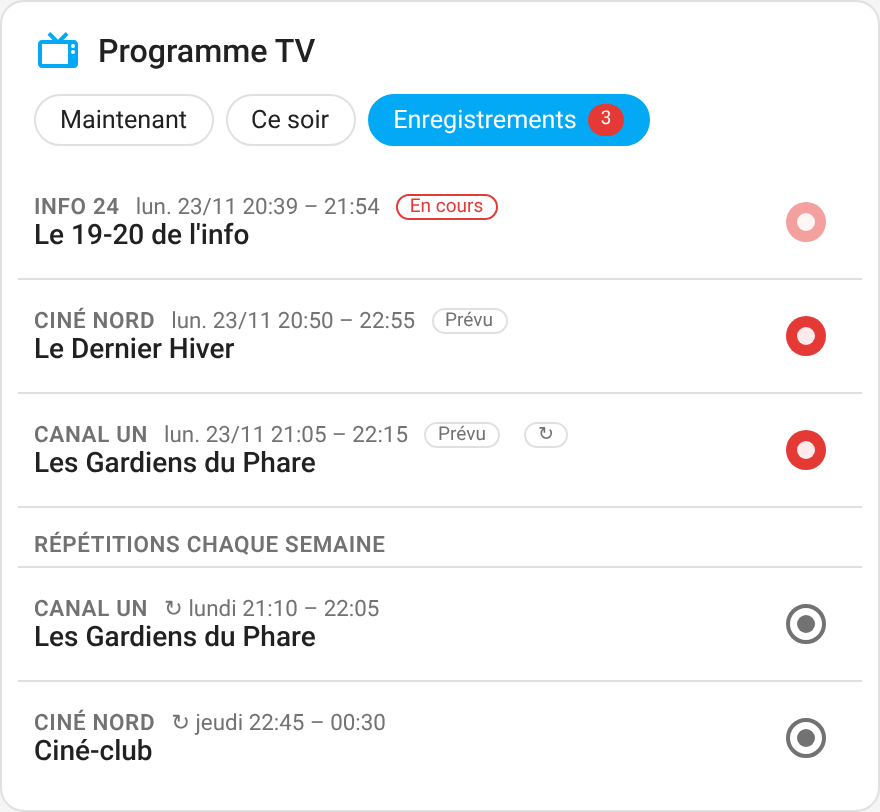
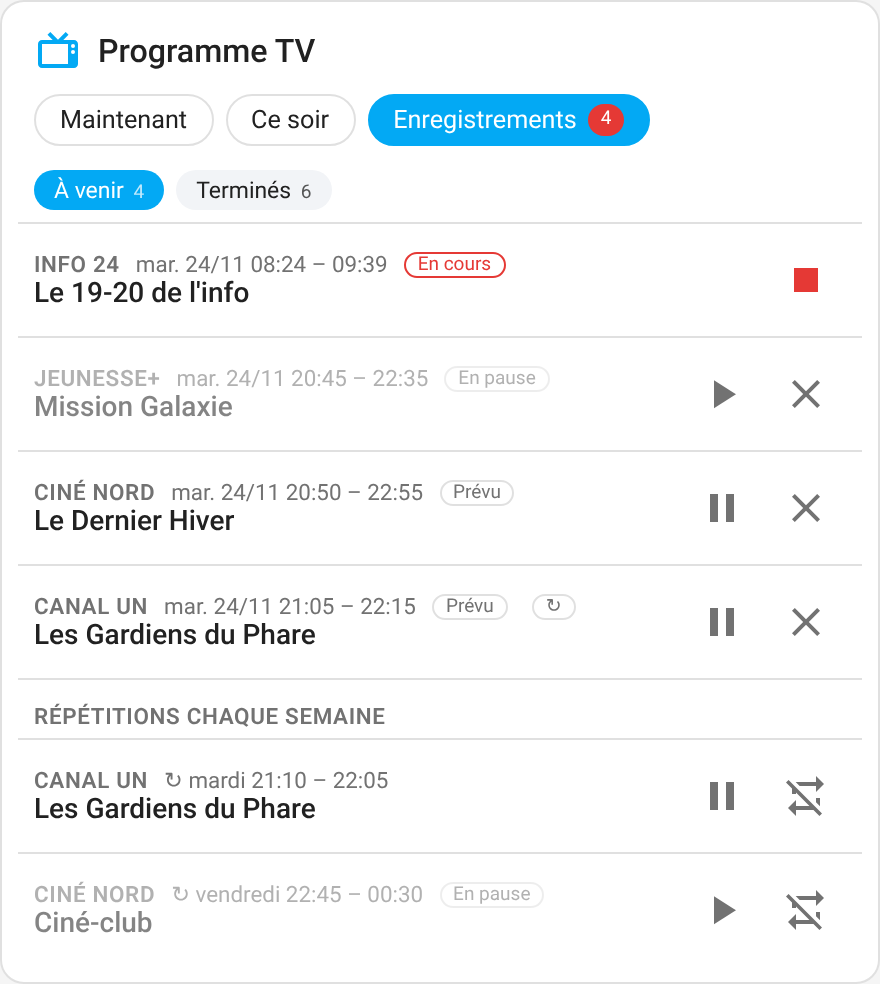
Add files via upload

diff --git a/README.md b/README.md
@@ -32,7 +32,7 @@ Freebox PVR programme des **enregistrements TV sur votre Freebox** depuis Home A
 - **Répéter chaque semaine** : même chaîne, même jour, même horaire ; chaque semaine, l'enregistrement suivant est programmé sur la Freebox. Une occurrence annulée n'est pas recréée. Le jour de la diffusion, le guide est vérifié : même titre → sous-titre de l'épisode et horaire mis à jour ; titre différent → notification pour décider (Annuler / Garder).
 - **Pas de doublon** : un 2e appel pour le même programme renvoie l'enregistrement existant.
 - **Programme déjà commencé** : l'enregistrement démarre tout de suite.
-- **Annulation** d'un enregistrement, par identifiant ou par programme.
+- **Gérer les enregistrements** : consulter les enregistrements à venir et ceux déjà enregistrés sur le disque ; mettre en pause / reprendre un enregistrement ou une répétition ; arrêter un enregistrement en cours ; annuler ; supprimer un enregistrement terminé.
 - **Entités** : enregistrements programmés (avec leur liste), prochain enregistrement, enregistrement en cours.
 - **Bouton dans la carte Programme TNT FR** : la fiche de chaque programme (carrousels, Guide TV, Top films) propose « Enregistrer sur la Freebox », ou indique que le programme est déjà enregistré avec un bouton pour l'annuler. Rien à configurer.
 - **Carte du tableau de bord** « Freebox PVR » : le programme TV (maintenant, ce soir) avec un bouton d'enregistrement sur chaque programme, et la liste des enregistrements. Aucune ressource à ajouter.
@@ -129,7 +129,7 @@ Si la carte [Programme TNT FR](https://github.com/cyclope205/programme-tnt-fr) e
 - **Chaque semaine** : répète l'enregistrement chaque semaine, le même jour à la même heure.
 - **Marges** : cochées par défaut avec les valeurs des options de l'intégration ; modifiables pour cet enregistrement (0 à 60 min avant, 0 à 120 min après) ou désactivées en décochant la case. La ligne « Enregistrement de … à … » donne les heures réelles, marges comprises.
 - **Enregistrer sur la Freebox** : programme l'enregistrement, avec les marges des options. Fonctionne aussi pour les jours suivants dans le Guide TV, et pour un programme déjà commencé (l'enregistrement démarre tout de suite).
-- **Enregistrement programmé** : le programme est déjà enregistré (depuis Home Assistant, le Player ou Freebox OS), avec ses horaires réels (marges comprises) et ↻ s'il est répété. **Annuler l'enregistrement** puis **Confirmer l'annulation** le supprime. **Répéter chaque semaine** ajoute la répétition ; **Arrêter la répétition** puis **Confirmer l'arrêt** l'arrête et supprime les enregistrements des semaines suivantes déjà programmés (celui du programme affiché est gardé).
+- **Enregistrement programmé** : le programme est déjà enregistré (depuis Home Assistant, le Player ou Freebox OS), avec ses horaires réels (marges comprises) et ↻ s'il est répété. **Mettre en pause** le désactive sans le supprimer (**Reprendre** le réactive) ; pendant l'enregistrement, **Arrêter l'enregistrement** puis **Confirmer l'arrêt** le termine en gardant la partie enregistrée. **Annuler l'enregistrement** puis **Confirmer l'annulation** le supprime. **Répéter chaque semaine** ajoute la répétition ; **Arrêter la répétition** puis **Confirmer l'arrêt** l'arrête et supprime les enregistrements des semaines suivantes déjà programmés (celui du programme affiché est gardé).
 - **Chaîne introuvable sur la Freebox** : ajoutez une correspondance dans les options de l'intégration.
 
 La carte Programme TNT FR n'est pas modifiée : Freebox PVR complète sa fiche au moment où elle s'ouvre. Si une future version de cette carte change son fonctionnement interne, la ligne n'apparaît simplement plus (message dans la console du navigateur) et la carte fonctionne comme avant.
@@ -154,7 +154,10 @@ pvr_entity: sensor.freebox_pvr_enregistrements_programmes   # facultatif : trouv
 - **Bouton d'enregistrement** (rond rouge) : un appui programme l'enregistrement. Le programme passe en rouge quand il est enregistré (la Freebox fait foi). Un nouvel appui propose « Annuler ? » pendant 4 secondes ; un 2e appui annule.
 - Bouton grisé : la chaîne n'a pas été trouvée sur la Freebox ; ajoutez une correspondance dans les options de l'intégration.
 - Un appui sur un programme affiche son résumé, sa note, son affiche, et les réglages d'enregistrement (heure de fin, chaque semaine) comme dans la fiche Programme TNT FR.
-- L'onglet **Enregistrements** liste aussi les **répétitions chaque semaine**, avec un bouton pour arrêter chacune (les enregistrements déjà programmés sont gardés).
+- L'onglet **Enregistrements** a deux vues :
+  - **À venir** : enregistrements programmés, en cours et en pause, avec ❙❙ mettre en pause / ► reprendre, ✕ annuler, ■ arrêter (en cours) ; puis les **répétitions chaque semaine**, avec mettre en pause / reprendre et arrêter la répétition.
+  - **Terminés** : enregistrements présents sur le disque de la Freebox (chaîne, date, durée, taille), du plus récent au plus ancien, avec la corbeille pour supprimer (le fichier est effacé).
+  - Les actions qui suppriment ou arrêtent demandent une confirmation (« Confirmer ? », 4 secondes).
 
 ### Captures d'écran
 
@@ -165,6 +168,7 @@ pvr_entity: sensor.freebox_pvr_enregistrements_programmes   # facultatif : trouv
 | **Carrousel** (4 affiches par rangée)<br>![Carrousel](docs/screenshots/tnt_carrousel.png) | **Fiche** — fin, chaque semaine, marges<br>![Fiche](docs/screenshots/fiche_enregistrer.png) |
 | **Fiche** — fin après minuit, répétée chaque semaine, marge après modifiée<br>![Minuit](docs/screenshots/fiche_minuit.png) | **Fiche** — sans marges<br>![Sans marges](docs/screenshots/fiche_sans_marges.png) |
 | **Fiche** — programme déjà enregistré et répété<br>![Enregistré](docs/screenshots/fiche_enregistre.png) | **Fiche** — arrêt de la répétition<br>![Arrêter](docs/screenshots/fiche_annuler.png) |
+| **Fiche** — enregistrement en pause<br>![En pause](docs/screenshots/fiche_pause.png) | **Fiche** — enregistrement en cours<br>![En cours](docs/screenshots/fiche_en_cours.png) |
 | **Fiche** — thème sombre<br>![Sombre](docs/screenshots/fiche_enregistrer_sombre.png) | |
 
 **Carte Freebox PVR**
@@ -172,8 +176,9 @@ pvr_entity: sensor.freebox_pvr_enregistrements_programmes   # facultatif : trouv
 | | |
 |---|---|
 | **Ce soir** — deux programmes enregistrés, une chaîne introuvable<br>![Ce soir](docs/screenshots/ce_soir.png) | **Maintenant** — progression et détail d'un programme<br>![Maintenant](docs/screenshots/maintenant.png) |
-| **Enregistrements** — en cours, prévus et répétitions<br>![Enregistrements](docs/screenshots/enregistrements.png) | **Détail d'un programme** — réglages d'enregistrement<br>![Détail](docs/screenshots/carte_detail.png) |
-| **Annulation** — confirmation en un appui<br>![Annulation](docs/screenshots/annulation.png) | **Thème sombre**<br>![Sombre](docs/screenshots/sombre.png) |
+| **Enregistrements à venir** — en cours, en pause, prévus, répétitions<br>![À venir](docs/screenshots/enregistrements.png) | **Enregistrements terminés** — sur le disque de la Freebox<br>![Terminés](docs/screenshots/termines.png) |
+| **Annulation** — confirmation en un appui<br>![Annulation](docs/screenshots/annulation.png) | **Détail d'un programme** — réglages d'enregistrement<br>![Détail](docs/screenshots/carte_detail.png) |
+| **Thème sombre**<br>![Sombre](docs/screenshots/sombre.png) | |
 | **En anglais**<br>![English](docs/screenshots/english.png) | |
 
 *Captures réalisées sur une installation de démonstration : chaînes, programmes, affiches et logos sont fictifs. La carte Programme TNT FR est celle de [cyclope205](https://github.com/cyclope205/programme-tnt-fr), affichée telle quelle avec la ligne ajoutée par Freebox PVR.*
@@ -182,7 +187,8 @@ pvr_entity: sensor.freebox_pvr_enregistrements_programmes   # facultatif : trouv
 
 | Entité | Rôle |
 |---|---|
-| `sensor.freebox_pvr_enregistrements_programmes` | Nombre d'enregistrements à venir ou en cours. Attributs : `records` (id, titre, sous-titre, chaîne, début, fin, état, erreur, conflit, horaires en timestamp `start_ts` / `end_ts`), `conflicts` (nombre), `failed` (5 derniers échecs), `guide_channels` (chaîne du guide → identifiant Freebox, `null` si introuvable : utile pour vérifier les correspondances), `repeats` (répétitions : id, titre, chaîne, jour 0 = lundi, heure, durée en minutes, prochain début). Chaque enregistrement a aussi `repeat_id` s'il vient d'une répétition |
+| `sensor.freebox_pvr_enregistrements_programmes` | Nombre d'enregistrements à venir ou en cours (hors pause). Attributs : `paused` (nombre en pause), `records` (à venir, en cours et en pause : id, titre, sous-titre, chaîne, début, fin, état, erreur, conflit, horaires en timestamp `start_ts` / `end_ts`), `conflicts` (nombre), `failed` (5 derniers échecs), `guide_channels` (chaîne du guide → identifiant Freebox, `null` si introuvable : utile pour vérifier les correspondances), `repeats` (répétitions : id, titre, chaîne, jour 0 = lundi, heure, durée en minutes, prochain début). Chaque enregistrement a aussi `repeat_id` s'il vient d'une répétition |
+| `sensor.freebox_pvr_enregistrements_termines` | Nombre d'enregistrements terminés sur le disque. Attributs : `recordings` (les 50 plus récents : id, titre, sous-titre, chaîne, début, fin, durée en secondes, taille en octets, état), `total_size` (octets) |
 | `sensor.freebox_pvr_prochain_enregistrement` | Heure de début du prochain enregistrement (marge comprise) ; attributs du programme |
 | `binary_sensor.freebox_pvr_enregistrement_en_cours` | Allumé pendant un enregistrement ; attribut `records` |
 
@@ -194,6 +200,10 @@ Les identifiants exacts dépendent de la langue de Home Assistant au moment de l
 |---|---|
 | `freebox_pvr.record` | Programme un enregistrement. Depuis un capteur du guide (`entity_id` + `slot` : `current`, `next`, `prime_time`, `second_part`) ou à la main (`channel_name` ou `channel_uuid`, `title`, `subtitle`, `start`, `end`). `end_time` (HH:MM) change l'heure de fin, le lendemain si elle est avant le début ; sur un programme déjà enregistré, elle modifie la fin de l'enregistrement. `repeat_weekly: true` répète chaque semaine. `margin_before`, `margin_after` et `quality` remplacent les options. Réponse : `record_id`, `already_programmed`, `repeat_id`, `channel_name`, `start`, `end`, `conflict` |
 | `freebox_pvr.cancel` | Annule un enregistrement programmé : par `record_id`, ou par programme (`entity_id` + `slot`, ou `channel_name` + `start`) |
+| `freebox_pvr.pause_record` / `freebox_pvr.resume_record` | Met en pause (désactive sans supprimer) / reprend un enregistrement programmé (`record_id`) |
+| `freebox_pvr.stop_record` | Arrête un enregistrement en cours (`record_id`) : la fin est avancée à maintenant, la partie enregistrée est gardée |
+| `freebox_pvr.delete_finished` | Supprime un enregistrement terminé et son fichier (`record_id`, voir le capteur des enregistrements terminés) |
+| `freebox_pvr.pause_repeat` / `freebox_pvr.resume_repeat` | Met en pause / reprend une répétition (`repeat_id`) : en pause, aucun nouvel épisode n'est programmé et les épisodes déjà programmés sont mis en pause ; à la reprise, ils reprennent et les semaines suivantes sont de nouveau programmées |
 | `freebox_pvr.stop_repeat` | Arrête une répétition (`repeat_id`). Les enregistrements déjà programmés sont gardés, sauf avec `cancel_scheduled: true` (`keep_record_id` en garde un) |
 | `freebox_pvr.refresh_channels` | Recharge la liste des chaînes de la Freebox (faite automatiquement toutes les 6 h) |
 
@@ -210,7 +220,7 @@ Les identifiants exacts dépendent de la langue de Home Assistant au moment de l
 - L'API PVR de Freebox OS peut évoluer sans préavis (Free la considère comme instable).
 - Seule la Freebox Revolution a été testée.
 - **Répétition** : gérée par l'intégration et non par la Freebox (l'API de répétition native de Free n'est pas documentée). L'enregistrement de la semaine suivante est programmé jusqu'à 8 jours à l'avance, à chaque mise à jour (toutes les 5 minutes) : Home Assistant doit tourner au moins une fois dans la semaine. Le jour de la diffusion (dans les 24 h), l'intégration compare chaque enregistrement répété au guide Programme TNT FR : si le même titre est annoncé, elle met à jour le sous-titre de l'épisode et, si l'émission est décalée (jusqu'à 1 h 30), l'horaire ; si un autre programme est annoncé, elle envoie une notification (une seule par semaine) avec « Annuler cet enregistrement » / « Garder ». Sans réponse, l'enregistrement est gardé. Avant ce jour-là, le guide n'est pas encore connu : l'épisode suivant est programmé sur le créneau habituel, sans sous-titre. Les répétitions sont enregistrées dans `.storage/freebox_pvr.<id>.repeats`.
-- **Modifier un enregistrement déjà programmé** (fin, ou sous-titre et horaire mis à jour par le guide) utilise l'API de modification de la Freebox, qui n'a pas encore été testée sur une vraie box.
+- **Modifier un enregistrement déjà programmé** (fin, mise en pause / reprise, arrêt en cours, ou sous-titre et horaire mis à jour par le guide) utilise l'API de modification de la Freebox, qui n'a pas encore été testée sur une vraie box.
 - Le Freebox Server doit avoir un disque pour les enregistrements.
 - Les conflits (deux enregistrements en même temps) sont signalés par la Freebox dans l'attribut `conflict`, pas résolus par l'intégration.
 
@@ -238,7 +248,7 @@ Freebox PVR schedules **TV recordings on your Freebox** from Home Assistant. It 
 - **Repeat every week**: same channel, same day, same time slot; every week, the next recording is scheduled on the Freebox. A cancelled occurrence is not recreated. On broadcast day, the guide is checked: same title → episode subtitle and time updated; different title → notification to decide (Cancel / Keep).
 - **No duplicates**: a second call for the same program returns the existing recording.
 - **Program already started**: recording starts right away.
-- **Cancel** a recording, by ID or by program.
+- **Manage recordings**: view upcoming recordings and those already recorded on the disk; pause / resume a recording or a repeat; stop a recording in progress; cancel; delete a finished recording.
 - **Entities**: scheduled recordings (with their list), next recording, recording in progress.
 - **Button in the Programme TNT FR card**: each program sheet (carousels, TV guide, top films) offers "Record on the Freebox", or shows that the program is already recorded with a button to cancel it. Nothing to set up.
 - **"Freebox PVR" dashboard card**: the TV guide (now, tonight) with a record button on each program, and the list of recordings. No resource to add.
@@ -335,7 +345,7 @@ If the [Programme TNT FR](https://github.com/cyclope205/programme-tnt-fr) card i
 - **Every week**: repeats the recording every week, on the same day at the same time.
 - **Margins**: checked by default with the integration option values; adjustable for this recording (0 to 60 min before, 0 to 120 min after) or turned off by unchecking the box. The "Recording from … to …" line gives the actual times, margins included.
 - **Record on the Freebox**: schedules the recording, with the option margins. Also works for the next days in the TV guide, and for a program already started (recording starts right away).
-- **Recording scheduled**: the program is already recorded (from Home Assistant, the Player or Freebox OS), with its actual times (margins included) and ↻ if repeated. **Cancel the recording** then **Confirm cancellation** deletes it. **Repeat every week** adds the repeat; **Stop repeating** then **Confirm stop** stops it and deletes the already scheduled recordings of the following weeks (the one of the displayed program is kept).
+- **Recording scheduled**: the program is already recorded (from Home Assistant, the Player or Freebox OS), with its actual times (margins included) and ↻ if repeated. **Pause** disables it without deleting it (**Resume** enables it again); while recording, **Stop the recording** then **Confirm stop** ends it and keeps what was recorded. **Cancel the recording** then **Confirm cancellation** deletes it. **Repeat every week** adds the repeat; **Stop repeating** then **Confirm stop** stops it and deletes the already scheduled recordings of the following weeks (the one of the displayed program is kept).
 - **Channel not found on the Freebox**: add a match in the integration options.
 
 The Programme TNT FR card is not modified: Freebox PVR completes its sheet when it opens. If a future version of that card changes how it works internally, the line simply no longer appears (message in the browser console) and the card works as before.
@@ -360,7 +370,10 @@ pvr_entity: sensor.freebox_pvr_scheduled_recordings   # optional: found automati
 - **Record button** (red circle): one tap schedules the recording. The program turns red once recorded (the Freebox is the reference). Another tap shows "Cancel?" for 4 seconds; a second tap cancels.
 - Greyed button: the channel was not found on the Freebox; add a match in the integration options.
 - Tapping a program shows its summary, rating, poster, and the recording settings (end time, every week) as in the Programme TNT FR sheet.
-- The **Recordings** tab also lists the **weekly repeats**, with a button to stop each one (already scheduled recordings are kept).
+- The **Recordings** tab has two views:
+  - **Upcoming**: scheduled, running and paused recordings, with pause / resume, cancel, stop (while recording); then the **weekly repeats**, with pause / resume and stop the repeat.
+  - **Finished**: recordings on the Freebox disk (channel, date, duration, size), newest first, with the bin to delete (the file is erased).
+  - Actions that delete or stop ask for confirmation ("Confirm?", 4 seconds).
 
 ### Screenshots
 
@@ -370,7 +383,8 @@ See the [French section](#captures-décran) (demo installation: channels, progra
 
 | Entity | Purpose |
 |---|---|
-| `sensor.freebox_pvr_scheduled_recordings` | Number of upcoming or running recordings. Attributes: `records` (id, title, subtitle, channel, start, end, state, error, conflict, `start_ts` / `end_ts` timestamps), `conflicts` (count), `failed` (last 5 failures), `guide_channels` (guide channel → Freebox ID, `null` if not found: handy to check matches), `repeats` (weekly repeats: id, title, channel, weekday 0 = Monday, time, duration in minutes, next start). Each recording also has `repeat_id` if it comes from a repeat |
+| `sensor.freebox_pvr_scheduled_recordings` | Number of upcoming or running recordings (paused excluded). Attributes: `paused` (number paused), `records` (upcoming, running and paused: id, title, subtitle, channel, start, end, state, error, conflict, `start_ts` / `end_ts` timestamps), `conflicts` (count), `failed` (last 5 failures), `guide_channels` (guide channel → Freebox ID, `null` if not found: handy to check matches), `repeats` (weekly repeats: id, title, channel, weekday 0 = Monday, time, duration in minutes, next start). Each recording also has `repeat_id` if it comes from a repeat |
+| `sensor.freebox_pvr_finished_recordings` | Number of finished recordings on the disk. Attributes: `recordings` (the 50 most recent: id, title, subtitle, channel, start, end, duration in seconds, size in bytes, state), `total_size` (bytes) |
 | `sensor.freebox_pvr_next_recording` | Start time of the next recording (margin included); program attributes |
 | `binary_sensor.freebox_pvr_recording_in_progress` | On while recording; `records` attribute |
 
@@ -382,6 +396,10 @@ Exact entity IDs depend on the Home Assistant language at installation time, and
 |---|---|
 | `freebox_pvr.record` | Schedules a recording. From a guide sensor (`entity_id` + `slot`: `current`, `next`, `prime_time`, `second_part`) or by hand (`channel_name` or `channel_uuid`, `title`, `subtitle`, `start`, `end`). `end_time` (HH:MM) changes the end time, next day if earlier than the start; on an already recorded program, it changes the recording's end. `repeat_weekly: true` repeats every week. `margin_before`, `margin_after` and `quality` override the options. Response: `record_id`, `already_programmed`, `repeat_id`, `channel_name`, `start`, `end`, `conflict` |
 | `freebox_pvr.cancel` | Cancels a scheduled recording: by `record_id`, or by program (`entity_id` + `slot`, or `channel_name` + `start`) |
+| `freebox_pvr.pause_record` / `freebox_pvr.resume_record` | Pauses (disables without deleting) / resumes a scheduled recording (`record_id`) |
+| `freebox_pvr.stop_record` | Stops a recording in progress (`record_id`): the end is moved to now, what was recorded is kept |
+| `freebox_pvr.delete_finished` | Deletes a finished recording and its file (`record_id`, see the finished recordings sensor) |
+| `freebox_pvr.pause_repeat` / `freebox_pvr.resume_repeat` | Pauses / resumes a repeat (`repeat_id`): while paused, no new episode is scheduled and already scheduled episodes are paused; on resume, they resume and the following weeks are scheduled again |
 | `freebox_pvr.stop_repeat` | Stops a repeat (`repeat_id`). Already scheduled recordings are kept, unless `cancel_scheduled: true` (`keep_record_id` keeps one) |
 | `freebox_pvr.refresh_channels` | Reloads the Freebox channel list (done automatically every 6 hours) |
 
@@ -398,6 +416,6 @@ Exact entity IDs depend on the Home Assistant language at installation time, and
 - The Freebox OS PVR API may change without notice (Free considers it unstable).
 - Only the Freebox Revolution has been tested.
 - **Repeat**: handled by the integration, not by the Freebox (Free's native repeat API is not documented). The next week's recording is scheduled up to 8 days ahead, at every update (every 5 minutes): Home Assistant must run at least once a week. On broadcast day (within 24 hours), the integration compares each repeated recording with the Programme TNT FR guide: if the same title is listed, it updates the episode subtitle and, if the show is shifted (up to 1.5 hours), the time; if another program is listed, it sends a notification (once a week) with "Cancel this recording" / "Keep". Without an answer, the recording is kept. Before that day the guide is not known yet: the next episode is scheduled on the usual slot, without subtitle. Repeats are stored in `.storage/freebox_pvr.<id>.repeats`.
-- **Changing an already scheduled recording** (end time, or subtitle and time updated from the guide) uses the Freebox edit API, not yet tested on a real box.
+- **Changing an already scheduled recording** (end time, pause / resume, stop while recording, or subtitle and time updated from the guide) uses the Freebox edit API, not yet tested on a real box.
 - The Freebox Server needs a disk for recordings.
 - Conflicts (two recordings at the same time) are reported by the Freebox in the `conflict` attribute, not resolved by the integration.
